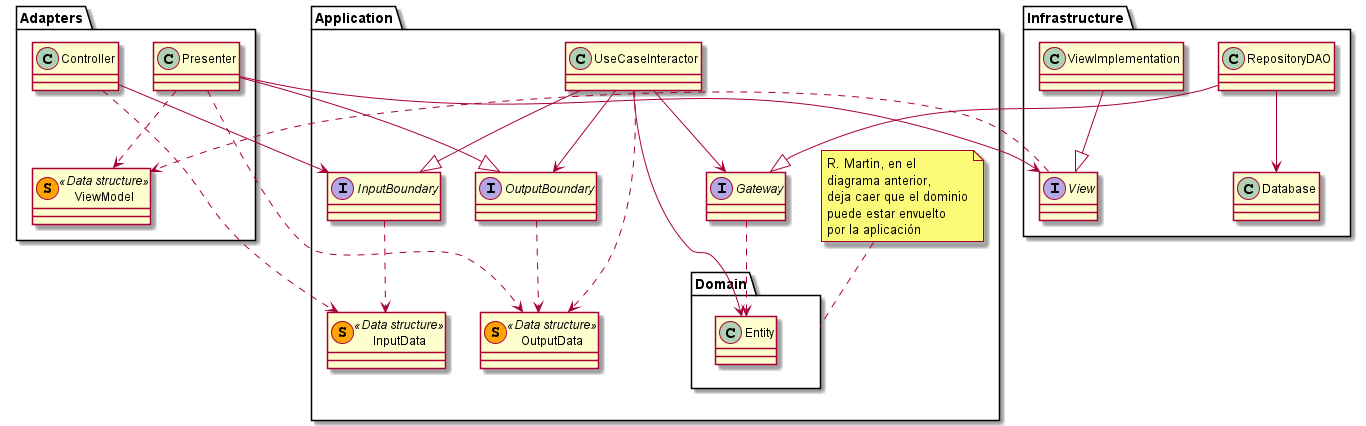
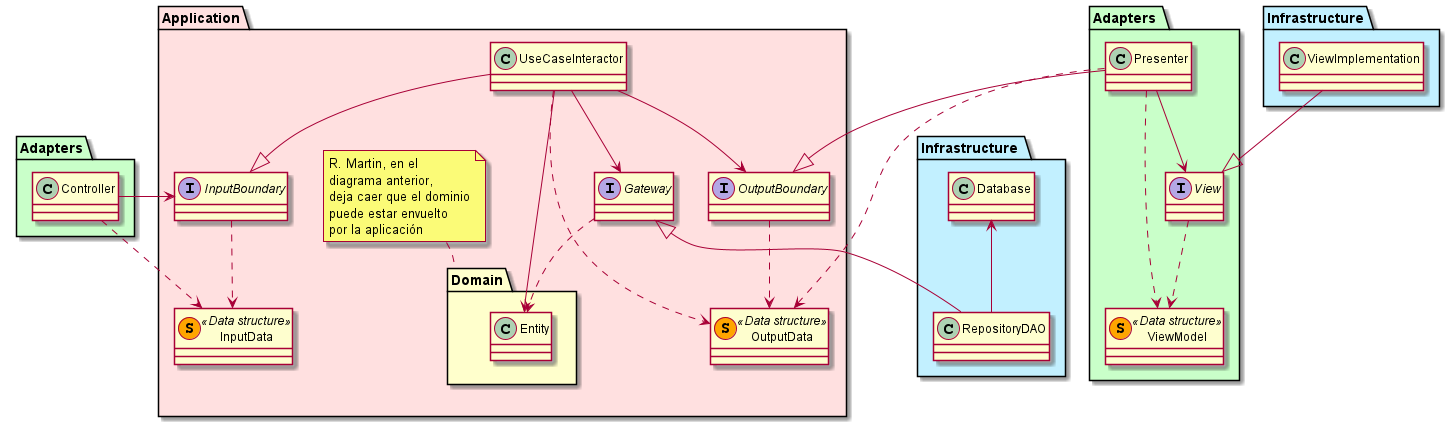
PlayCard-Success use case & updated entities

diff --git a/Docs/Architecture/ReadMe.md b/Docs/Architecture/ReadMe.md
@@ -47,10 +47,12 @@ implementan esas interfaces sin que las capas más abstractas tengan que conocer
 
 | Abstracción   | Descripción | En qué capa está |  Quién la conoce      |  Quién la implementa | 
 |:-------:|:-----:|:--------:|:--------------:| :-----:|
-| InputBoundary | Entrada desde la infraestructura hacia el dominio | Dominio |  Controller | UseCase/Interactor |
-| OutputBoundary | Salida desde el dominio hacia la infraestructura | Dominio | UseCase/Interactor | Presenter |
-| Gateway | Conexiones con persistencia | Dominio | UseCase/Interactor | DAO |
+| InputBoundary | Entrada desde la infraestructura hacia el dominio | Dominio (Domain+Application*) |  Controller | UseCase/Interactor |
+| OutputBoundary | Salida desde el dominio hacia la infraestructura | Dominio (Domain+Application*) | UseCase/Interactor | Presenter |
+| Gateway | Conexiones con persistencia | Dominio (Domain + Application*) | UseCase/Interactor | DAO |
 | View | Descripción genérica de una vista | Presentation | Presenter | ViewImplementation |
+
+*Ver apartado [Capas mínimas](#capas-mínimas) para no confundir ese concepto de «Dominio» con la capa *Domain*.
 
 ## Capas recomendadas
 
@@ -78,10 +80,10 @@ Sin embargo, como mínimo debe existir la noción de estas dos grandes capas:
 
 | Capa   |      Contiene      |  Conoce a | 
 |:-------:|:-------------:|:--------------:|
-| Domain |  Domain + Application | Ninguna otra capa, ya que es la de mayor abstracción |
+| Domain |  Domain* + Application | Ninguna otra capa, ya que es la de mayor abstracción |
 | Infrastructure |  Adapters + Frameworks  |   Domain |
 
-El nombre de Domain en este caso se extiende y es quizá desafortunado por su ambigüedad,
+*El nombre de Domain en este caso se extiende y es quizá desafortunado por su ambigüedad,
 pero al final se trata de diferenciar, simplemente, entre abstracciones y detalles de implementación.
 
 ## Capas cohesivas

diff --git a/Docs/Design/ReadMe.md b/Docs/Design/ReadMe.md
@@ -1,4 +1,12 @@
 # Diseño
 
 ## Entidades
-![](Design.png)
+![](Entities.png)
+
+## Casos de uso
+
+### Jugar una carta
+
+#### Escenario: la carta es jugable y se juega con éxito
+
+![](PlayCard-Success.png)
